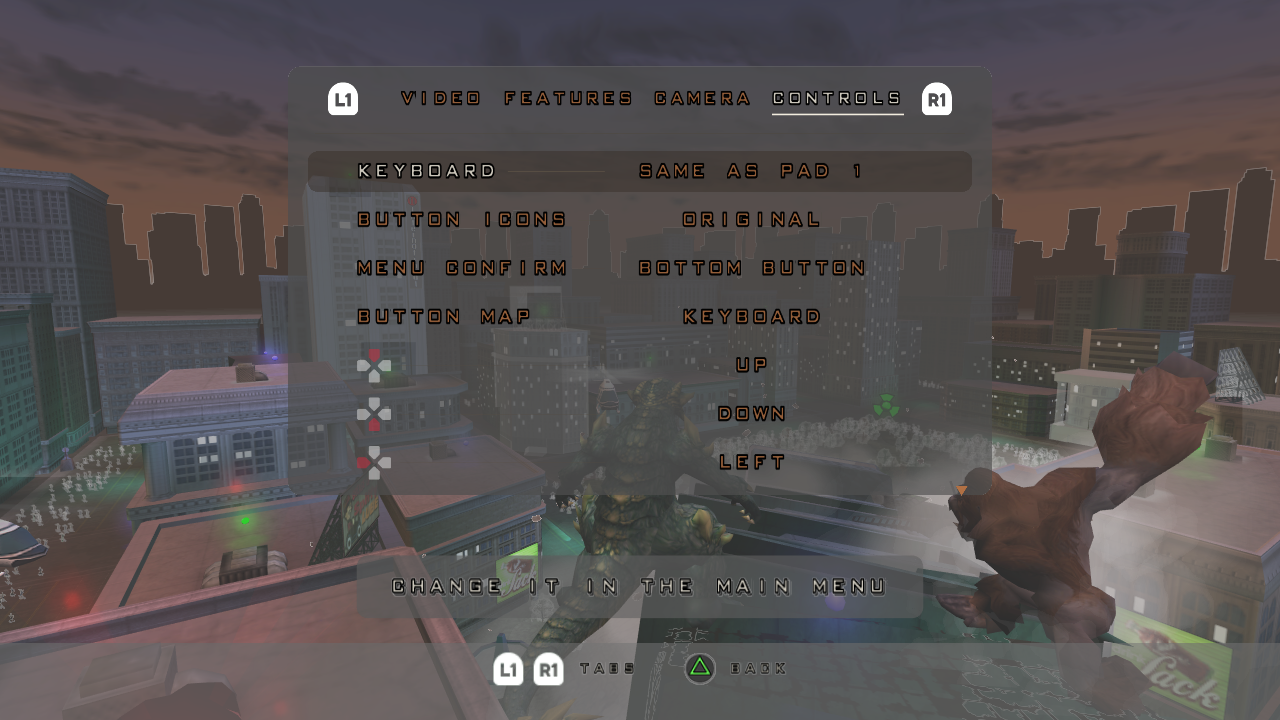
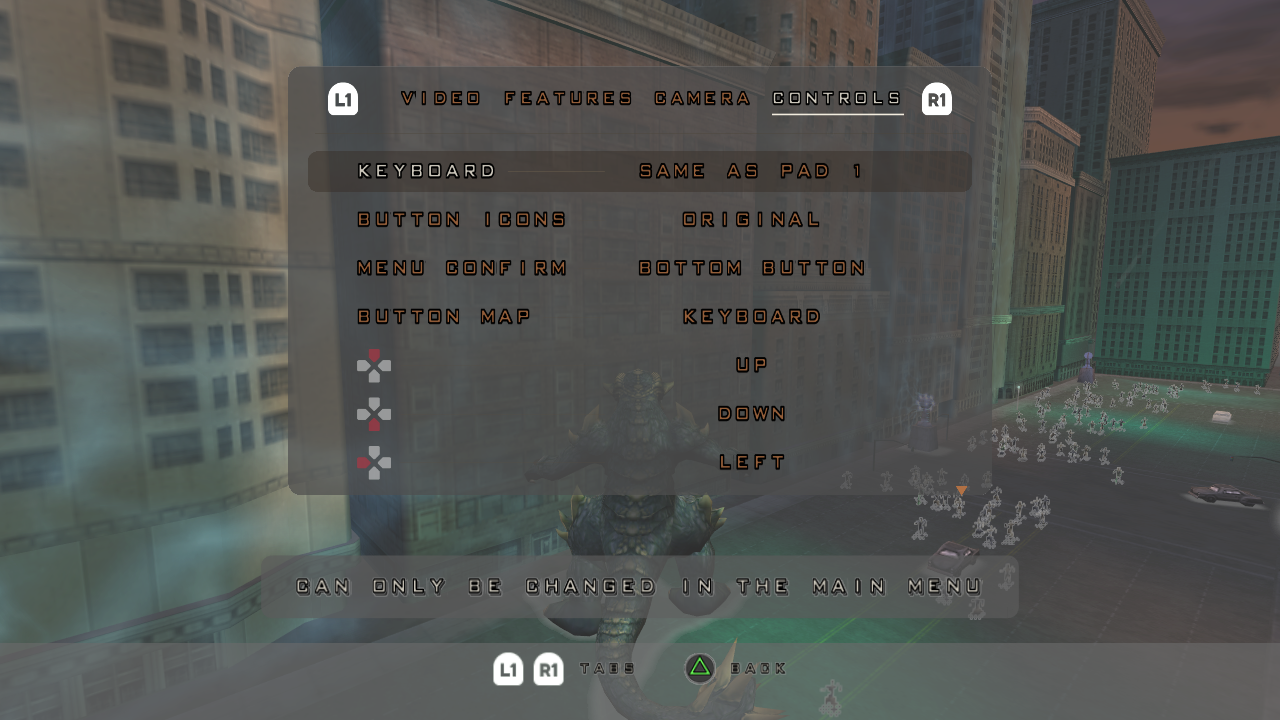
Pausa: dica do KEYBOARD travado vira "CAN ONLY BE CHANGED IN THE MAIN MENU"

diff --git a/docs/passos/NATIVO.md b/docs/passos/NATIVO.md
@@ -161,7 +161,7 @@ Compara, por objeto e em números, o que o microcódigo do VU1 mandaria ao GS co
     - QUIT GAME no fim do menu principal (`wotm_mainmenu.inc`, `kQuitRow`): o X fecha o jogo na hora (`requestStop`, o caminho do X da janela). Os itens nossos da tela 1 (RECOMPILED OPTIONS, QUIT GAME) ficam fora do `currentSelection` (`g_extraRow`); a lista passou a 7 vagas.
     - Lista do menu com as letras do jogo (`wotm_menufont.inc`): as minúsculas brancas desenhadas à mão das palavras dos itens (T4 81, 142 e 162 do `SHELL.TEX`, paletas tbp 239, 480 e 518, `decodeT4` do `wotm_model.hpp`). Palavras que o jogo tem saem inteiras; as nossas (single player, recompiled options, quit game, e endurance/elimination, que no jogo só existem em cinza) saem do maior trecho de alguma palavra que casa com o que falta, recortado no meio do vão entre as letras (só o branco separa: o contorno preto encosta); "sudden death" e "unlimited play", frases que o jogo apertou (o "e" com 14 px em vez de 17), só entram para letra que não existe nas outras. Cada linha tem a sua linha de base e altura do x medidas. A fonte não tem b, j, q, x nem z; o q é o p espelhado. Sem o disco, volta a fonte de maiúsculas. Cores e brilho como os do jogo: o item escolhido cinza opaco (cor de vértice 64,64,64), os outros marrom (67,41,28) com ~40% de opacidade (alfa de vértice 26, dobrado como na textura deles); atrás do escolhido, no lugar da faixa escura, o brilho do objeto solto do jogo (`m_menuObj`, textura 194: miolo com alfa 19 x2 caindo a 0 na borda, miolo com ~0,55 do passo dos itens de altura e borda com 1,5). Linhas 1,15 passo dos itens do jogo (a lista dele é mais apertada) e 0,6 passo de folga em cima e embaixo na textura (`kSpacing`, `kPadRows`), para o brilho do primeiro e do último item não ser cortado. A textura da lista vai ao telão com alfa pré-multiplicado (`drawOnPlane(..., premul)`): com o alfa normal o translúcido saía multiplicado duas vezes.
   - Fotos: `docs/screenshots/2026-10-22/2026-10-22_{painel_camera_*,painel_controls_7_linhas_legenda_xbox,painel_legenda_teclado,painel_espera_tecla_esc,multiplayer_legenda_icones,options_do_jogo_redesenhado,menu_sem_brilho_antigo}.png`. A seleção de monstros do multiplayer usa a legenda nativa desde 2026-10-22.
-- **Painel na pausa (2026-10-23, branch `painel-pausa`, `wotm_pausemenu.inc` + `wotm_mainmenu.inc`; plano em `investigacoes/2026-10-23/painel_na_pausa.md`):** a linha do CONTROL SCHEME da pausa da luta volta como **RECOMPILED OPTIONS** (o `printHook` escreve o texto no próprio buffer de 24 bytes que o jogo reescreve com `sprintf` a cada quadro; o QUIT voltou ao lugar dele e o cursor não pula mais a linha). Escolhido (fonte 20), o texto passava da caixa da pausa: na saída do overlay a linha 0 da matriz da caixa (`shell->m_cs610`, `_cs::mat` em +0x20, eixo x do objeto) é multiplicada por 1,4 (`widenBox`; não reescala um quadro em que o jogo não a reescreveu). Esquerda/direita nela não chegam ao jogo: gancho no `inputGetInput` que, dentro do `pauseLevelOverlay` e com o item 3, devolve 0 para as máscaras 0x80/0x20 (o `m_ctlrCfg` fica no tipo A). O X nela abre o painel: o gancho do `checkInputForExit` anota, pelo do `inputGetInput`, se o X (0x4000) ou o Start (0x08) deram verdade (o bool "foi Start" do jogo fica na pilha, no scratchpad); com o X e sem o Start, abre o painel e devolve 0. O Start continua tirando da pausa. Com o painel aberto o gancho do `pauseLevelOverlay` roda o painel (`wotm_mainmenu::pauseFrame`, um `panelInput` por quadro do laço do `displayDialog`) e devolve 0 sem chamar a original: o jogo não lê o pad nem desenha a lista; a caixa 3D da pausa (`shell->m_cs610`) é desligada com `hierSetCsDrawMe(cs, 0)` e o próprio overlay a religa ao fechar. Depois de fechar, 20 quadros (e até soltarem tudo) com a entrada do jogo na pausa bloqueada (`pauseBlocked`: `inputGetInput`, `checkInputForExit` e `getCurrentMenuSelection`), para o triângulo/Esc que fechou não virar Start ou X. O painel é o mesmo do menu (abas, linha, mapa e captura compartilhados), com estado próprio de aberto/animação (`g_pauseOpen`, `g_pausePanel`) e `g_where` (menu ou pausa) para sons, mouse e trava; o `panelInput` devolve "fechou" e cada chamador fecha o seu. **Desenho:** em 2D na janela (`renderPauseUi` na textura do painel, com o atlas da fonte do último quadro com texto; `drawPausePanel2d` depois do texto do jogo e antes da legenda), centrado, altura 0,60 do quadro e topo em 0,09 (largura até 0,96 da janela), véu preto de ~25%, legenda com faixa translúcida (0,55) como no modo foto; a luta continua desenhada atrás para comparar as opções de vídeo. Mouse pelo `panelHit` (a mesma conta do telão, separada do `drawPanelOnTelao`) no `g_pauseHover`, à parte do `g_hover` que o `drawOnTelao` zera na luta. **KEYBOARD travado na pausa** (decisão do dono): apagado, sem setas, dica "CHANGE IT IN THE MAIN MENU", esquerda/direita/X sem efeito. **Sons:** os do Shell, como no menu (decisão do dono). Na luta o jogo não tem o banco do Shell (`gSoundBanks[14]` é 0), então o som nativo carrega uma cópia de `SND/SHELL_S.BNK` só para o painel, na primeira vez (`wotm_snd_hooks::panelShellBank`, `Engine::loadBankData(arquivo, grupo)`), fora dos bancos do jogo. Os sons dessa cópia vão para o grupo 2, o dos sons da pausa: na pausa o jogo baixa a zero o volume mestre dos grupos 0 e 1 (`updatePauseAllSounds`), e o Shell é todo do grupo 0 (tocava sem volume). `PS2X_SND_LOG=1` mostra `[snd] painel: som N do Shell -> handle (grupo 2, volume mestre ...)`. Log: `[pausa] painel aberto (jogador N; banco ...)`, `[pausa] painel fechado`. Conferido por roteiro (`WOTM_MATCH=3,1,1`, `PS2X_PAD` até o item e X, `WOTM_PADSEL_SCRIPT` nas abas, `WOTM_SHOTS`): abre, troca de aba, LOCK-ON TOGGLE muda e volta, KEYBOARD não muda, fecha, CONTINUE volta à luta; corpus sem piora. Fotos: `docs/screenshots/2026-10-23/2026-10-23_pausa_{recompiled_options,painel_video,painel_keyboard_travado}.png`. Falta conferir ao vivo: mouse, RESOLUTION/ANTI-ALIASING/DISPLAY MODE na pausa, CAMERA STYLE trocado e a volta, tela dividida.
+- **Painel na pausa (2026-10-23, branch `painel-pausa`, `wotm_pausemenu.inc` + `wotm_mainmenu.inc`; plano em `investigacoes/2026-10-23/painel_na_pausa.md`):** a linha do CONTROL SCHEME da pausa da luta volta como **RECOMPILED OPTIONS** (o `printHook` escreve o texto no próprio buffer de 24 bytes que o jogo reescreve com `sprintf` a cada quadro; o QUIT voltou ao lugar dele e o cursor não pula mais a linha). Escolhido (fonte 20), o texto passava da caixa da pausa: na saída do overlay a linha 0 da matriz da caixa (`shell->m_cs610`, `_cs::mat` em +0x20, eixo x do objeto) é multiplicada por 1,4 (`widenBox`; não reescala um quadro em que o jogo não a reescreveu). Esquerda/direita nela não chegam ao jogo: gancho no `inputGetInput` que, dentro do `pauseLevelOverlay` e com o item 3, devolve 0 para as máscaras 0x80/0x20 (o `m_ctlrCfg` fica no tipo A). O X nela abre o painel: o gancho do `checkInputForExit` anota, pelo do `inputGetInput`, se o X (0x4000) ou o Start (0x08) deram verdade (o bool "foi Start" do jogo fica na pilha, no scratchpad); com o X e sem o Start, abre o painel e devolve 0. O Start continua tirando da pausa. Com o painel aberto o gancho do `pauseLevelOverlay` roda o painel (`wotm_mainmenu::pauseFrame`, um `panelInput` por quadro do laço do `displayDialog`) e devolve 0 sem chamar a original: o jogo não lê o pad nem desenha a lista; a caixa 3D da pausa (`shell->m_cs610`) é desligada com `hierSetCsDrawMe(cs, 0)` e o próprio overlay a religa ao fechar. Depois de fechar, 20 quadros (e até soltarem tudo) com a entrada do jogo na pausa bloqueada (`pauseBlocked`: `inputGetInput`, `checkInputForExit` e `getCurrentMenuSelection`), para o triângulo/Esc que fechou não virar Start ou X. O painel é o mesmo do menu (abas, linha, mapa e captura compartilhados), com estado próprio de aberto/animação (`g_pauseOpen`, `g_pausePanel`) e `g_where` (menu ou pausa) para sons, mouse e trava; o `panelInput` devolve "fechou" e cada chamador fecha o seu. **Desenho:** em 2D na janela (`renderPauseUi` na textura do painel, com o atlas da fonte do último quadro com texto; `drawPausePanel2d` depois do texto do jogo e antes da legenda), centrado, altura 0,60 do quadro e topo em 0,09 (largura até 0,96 da janela), véu preto de ~25%, legenda com faixa translúcida (0,55) como no modo foto; a luta continua desenhada atrás para comparar as opções de vídeo. Mouse pelo `panelHit` (a mesma conta do telão, separada do `drawPanelOnTelao`) no `g_pauseHover`, à parte do `g_hover` que o `drawOnTelao` zera na luta. **KEYBOARD travado na pausa** (decisão do dono): apagado, sem setas, dica "CAN ONLY BE CHANGED IN THE MAIN MENU", esquerda/direita/X sem efeito. **Sons:** os do Shell, como no menu (decisão do dono). Na luta o jogo não tem o banco do Shell (`gSoundBanks[14]` é 0), então o som nativo carrega uma cópia de `SND/SHELL_S.BNK` só para o painel, na primeira vez (`wotm_snd_hooks::panelShellBank`, `Engine::loadBankData(arquivo, grupo)`), fora dos bancos do jogo. Os sons dessa cópia vão para o grupo 2, o dos sons da pausa: na pausa o jogo baixa a zero o volume mestre dos grupos 0 e 1 (`updatePauseAllSounds`), e o Shell é todo do grupo 0 (tocava sem volume). `PS2X_SND_LOG=1` mostra `[snd] painel: som N do Shell -> handle (grupo 2, volume mestre ...)`. Log: `[pausa] painel aberto (jogador N; banco ...)`, `[pausa] painel fechado`. Conferido por roteiro (`WOTM_MATCH=3,1,1`, `PS2X_PAD` até o item e X, `WOTM_PADSEL_SCRIPT` nas abas, `WOTM_SHOTS`): abre, troca de aba, LOCK-ON TOGGLE muda e volta, KEYBOARD não muda, fecha, CONTINUE volta à luta; corpus sem piora. Fotos: `docs/screenshots/2026-10-23/2026-10-23_pausa_{recompiled_options,painel_video,painel_keyboard_travado}.png`. Falta conferir ao vivo: mouse, RESOLUTION/ANTI-ALIASING/DISPLAY MODE na pausa, CAMERA STYLE trocado e a volta, tela dividida.
 - **"Press start" sem espera e com X (2026-10-20, `wotm_menu.inc`):** no retail a tela 20 (`screenWaitForStart`) só aceita Start, e só quando a transição 16 → 20 termina: a cena clareia do preto enquanto a câmera recua do telão (animação 1, 120 quadros, ~2 s), e o `screenGetInput` devolve 0 enquanto `betweenScreens != 0`. Agora X vale como Start (na tela 20 o código 6 do `screenGetInput` vira 0x10) e Start/X já valem durante essa transição: o gancho do `screenTransition` lê o pad (com `betweenScreens` zerado só na leitura) e roda o próprio `screenWaitForStart` com o Start injetado (primeira passada: seleções, controles, `m_menuCs` escondido; depois `changeScreen(20 → 1)` e o som). A animação 1 segue sozinha e a transição 20 → 1 usa a animação 0, como no caminho normal: as opções aparecem no fade de sempre (40 quadros) com a câmera ainda terminando o movimento. O aperto só conta depois de o botão ser solto dentro da transição (o X que pulou o filme não entra no menu) e só age depois do fade-out da tela anterior (20 quadros); antes fica guardado. Log: `WOTM_MENULOG=1`.
 - **Câmera livre de debug (F5, 2026-10-17, conferida pelo dono):** `native/wotm_freecam.h` (estado e convenção: heading em Z, 0 = +Y, pitch, sem roll; linhas do `_cs` = direita, frente, cima) e `native/runtime/wotm_freecam.inc` (teclas: WASD/QE, Shift/Ctrl, roda = velocidade, botão direito ou setas olham, Tab devolve o pad; desde 2026-10-22 os controles aparecem na legenda de ícones de baixo, `wotmFreeCamLegend` no `wotm_photo.inc`, no lugar da linha de texto azul). A pose vai para o `_cs` da vista 0 na thread do EE (`wotm_overrides.cpp`), depois de `Cameras::Update` e na entrada de `viewUpdate(0)`: o próprio jogo usa a câmera (matrizes, recorte, LOD, partículas, som, controle relativo à câmera). A câmera do jogo continua rodando por baixo e volta sozinha ao desligar. Com ela ligada (sem Tab), o `scePadRead` devolve o pad em repouso. Pausado (F7), o EE não roda: o desenho usa a pose direto, recoleta a cena sem `fovCull`, tira o HUD do hier (o céu fica no lugar: é fixo no mundo); LOD, partículas e prédios fantasma ficam como no quadro pausado. Falta: FOV.
 - **Modo foto (2026-10-22, `native/runtime/wotm_photo.inc`; `POS_FRONTEIRA.md`, "Brechas"):** F9 no teclado ou L3 + R3 juntos no gamepad. Pausa o jogo (a mesma pausa do F7: `wotmPhotoPause` no `wotm_foto.inc`; F5/F6/F7/F8 ficam sem efeito enquanto ele está ligado) e solta a câmera com zoom; o modo foto não escreve no `_cs` do jogo, então ao sair a câmera é a de antes. Controles na legenda de baixo (`wotm_legend.inc`, faixa translúcida, ícones no estilo do último dispositivo; a legenda encolhe para caber quando há muitos itens): teclado WASD anda (no plano do chão), Q/E altura, botão direito do mouse ou setas olham, Shift ×4 / Ctrl ×0,25, roda = zoom, H esconde o HUD, Enter salva, R volta à câmera do jogo, F9 ou Esc sai; gamepad analógico esquerdo anda, direito olha, L2/R2 altura, L1/R1 zoom, botão de baixo esconde o HUD, o da esquerda salva, o de cima volta, o da direita sai. Ao sair, a câmera do jogo volta na hora e o jogo continua quando o botão usado para sair é solto, no máximo 1 s depois (antes a espera era por todos os botões de todos os pads). O "congelado" relatado pelo dono era outra coisa: ao soltar a pausa, o `wotmPauseBlock` somava a duração dela ao prazo do próximo vblank (`shiftHostDeadlines`), mas o relógio do vblank continua andando na pausa, então o jogo ficava parado depois de soltar pelo mesmo tempo que tinha ficado pausado (valia também para o F7). Agora o prazo não anda; só os vblanks acumulados são zerados. **O que acompanha a câmera com o jogo parado:** (1) HUD do hier (`hud`, `hp`, `overlay`, `hpOverlay`): cada matriz passa do espaço do olho do jogo para o da câmera livre, com os eixos da tela multiplicados pelo zoom (o HUD fica parado e do mesmo tamanho na tela); (2) lens flare: a lista é refeita a cada quadro pela câmera livre (`rebuildFlares`), como o jogo a monta e projeta: as luzes do hier com lens flare (`HierLight` op 5 com isOn e hasLensFlare) que a coleta nativa acha no `walk` (`Scene::worldLights`/`Snapshot::worldLights`: posição e feixe pela matriz do nó, como o `hierLightNode`; dotProd = −(olho→luz)·feixe; repetidas no mesmo `_cs` contam uma vez, porque o `collectShadows` percorre os monstros de novo) e os sistemas de partícula com `vis.lightColor & 0x1000000` (como o `particleAddLensFlareToList`: FOVsphere ou emitVec, Zfudge com as flags 3, intensidade = lightIntensity²); projeção como o `particleLensFlareTestZbuffer` (W < 1 e fora da tela saem), sem ID (sem a média com o quadro anterior). Assim acende o flare de uma luz que estava fora da tela na pausa (olho do Robo-47 visto de frente: `docs/screenshots/2026-10-22/2026-10-22_modo_foto_flare_olho_robo47.png`). Conferido contra a lista do próprio jogo no quadro da pausa (mesma W e dotProd −0,79 x −0,86 de um quadro para o outro). Sem nenhuma das duas fontes, a lista do quadro pausado volta ao mundo e é reprojetada como antes. O `readFlares` agora lê a tabela dos 18 sprites mesmo com a lista vazia (n = 0), para o modo foto ter os sprites quando a pausa não tinha flare; (2b) partículas e fogo do Agamo: o `particleDraw` só monta o pacote (`infoAttribs & 0x400`) dos sistemas na vista, e a recoleta pausada os descartava, então o fogo de um Agamo fora da tela na pausa sumia. Na recoleta sem corte (`fovCull` falso) sprites e texSprites entram sem o pacote (só leem pos, idade e cores); os tipos com cabeçalho no pacote continuam de fora. Se um emissor do preset 141 (`IdolHeadFlame`, nós op 22 guardados em `Scene::emitters`) não tem sistema com partículas vivas a menos de 20 unidades, o fogo é simulado (`native/wotm_flame.hpp`, a mesma simulação da prévia da lista de saves, agora compartilhada com o `wotm_model.hpp`): 30 fields com o emissor parado, congelado durante a sessão, desenhado pelo caminho dos sprites (`Particles::synth`, Fireball, mistura 0x48); (3) barras sobre os inimigos e o ícone de vida do jogo: os ganchos do `Hud::drawHealthIcon` anotam o ponto do mundo e o centro do ícone (`wotmHudAnchor` → `Snapshot::anchors`; as barras levam o índice em `ScreenRect::anchor`, o ícone do `ScreenPolys` é achado pelo centro); o ponto é projetado pelas duas câmeras e a diferença desloca o bloco. Na tela dividida as barras saem (a câmera livre mostra só a vista 0). Texto do jogo e números de dano já seguem a tela/a câmera. Esconder o HUD tira tudo isso menos os fades. **Salvar:** o quadro seguinte sai sem a legenda e vai inteiro, na resolução nativa, para `<pasta do settings.ini>/screenshots/WotM_<data>_<hora>.png` (aviso "PHOTO SAVED" na dica). Tela sem cena nativa (filme, carga): se a pausa não chega em 1,5 s o modo foto desiste; se o desenho nativo para de rodar com ele ligado, sai e o jogo volta (`wotmPhotoWatchdog`). O som continua tocando, como no F7. Atlas: `tools/prompts_atlas.py` ganhou os analógicos (botões virtuais 18/19 em `kXbox/kPs/kNintendo[kPadCells]`), Esc, F1..F12 e o mouse; os 134 ícones antigos saíram idênticos (pacote 1.5 do Kenney). Conferido com `WOTM_MATCH=3,1,1 WOTM_AIVSAI=1 WOTM_ENEMYBARS=1 WOTM_PHOTO=25`; foto em `docs/screenshots/2026-10-22/2026-10-22_modo_foto_legenda.png`. Flare e fogo: `WOTM_MATCH=2,1 WOTM_PHOTO=12` (Robo-47 sozinho; a etapa 2 leva a câmera a 70 unidades na frente do feixe da luz mais perto) e `WOTM_MATCH=2,10,1 WOTM_AIVSAI=1 WOTM_PHOTO=15` (a etapa 3 olha o emissor do fogo do Agamo; o log diz `particulas do jogo` ou `simulado`). Corpus sem piora.

diff --git a/docs/investigacoes/2026-10-23/painel_na_pausa.md b/docs/investigacoes/2026-10-23/painel_na_pausa.md
@@ -37,7 +37,7 @@ pausa), `wotm_legend.inc` e `wotm_prompts.inc` (legenda e dica), `wotm_live.inc`
   lista da pausa. Véu escuro leve ou nenhum, para não atrapalhar a comparação (conferir com o dono).
 - **Teclado separado (KEYBOARD, primeira linha da aba CONTROLS): travado na pausa** (decidido). Ligar essa opção no meio de uma luta
   de 1 jogador manda o teclado para o jogador 2, que não existe; quem joga pelo teclado perde o monstro e não sai mais da pausa pelo
-  teclado. Na pausa a linha aparece apagada, sem setas, e não muda; a dica diz "CHANGE IT IN THE MAIN MENU". O resto da aba fica livre.
+  teclado. Na pausa a linha aparece apagada, sem setas, e não muda; a dica diz "CAN ONLY BE CHANGED IN THE MAIN MENU". O resto da aba fica livre.
 
 ## 1. O que o jogo faz na pausa (retail)
 
